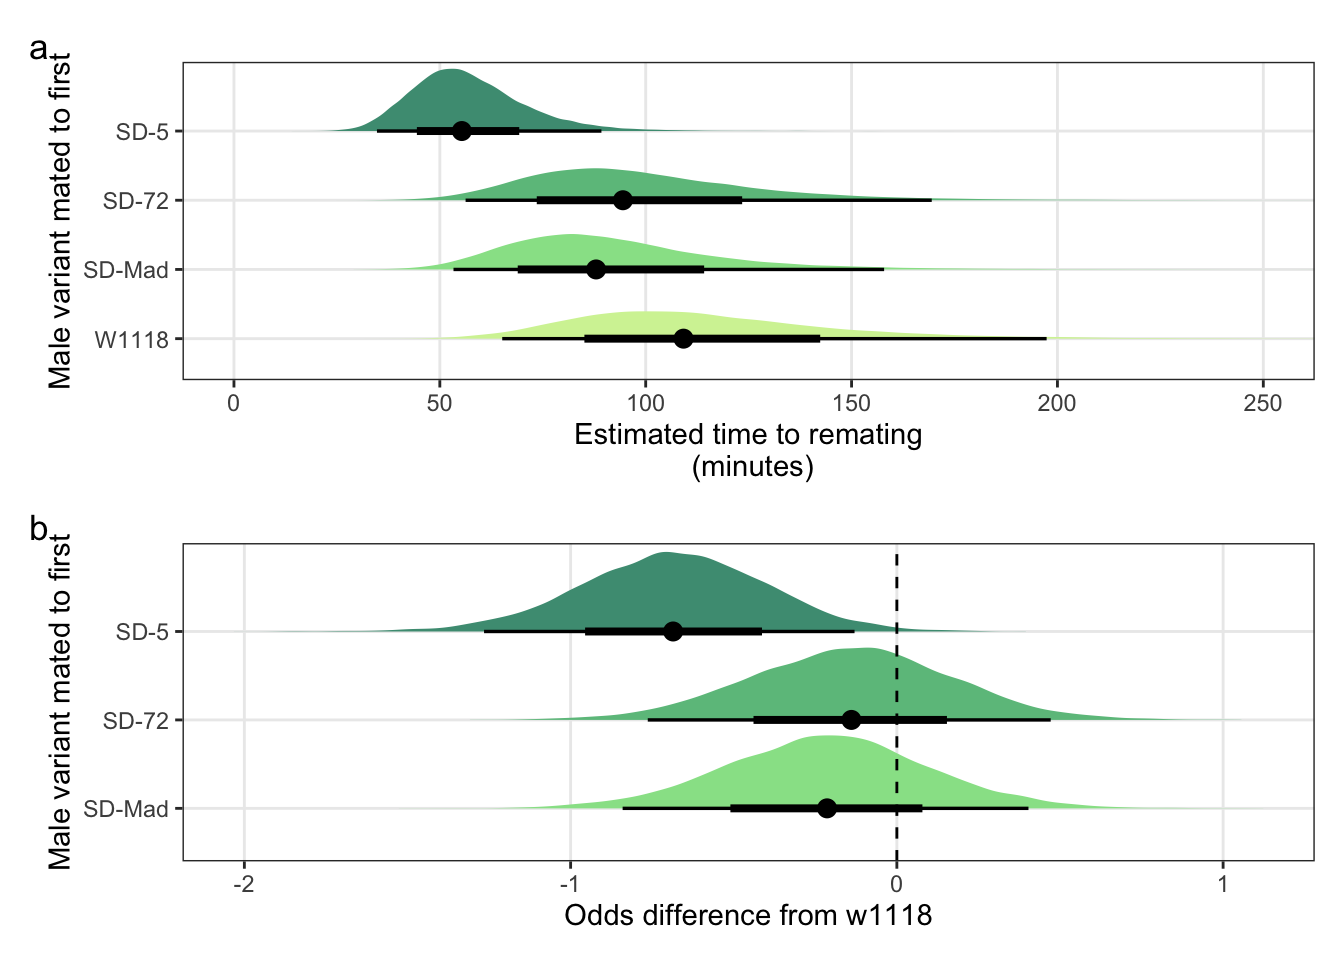
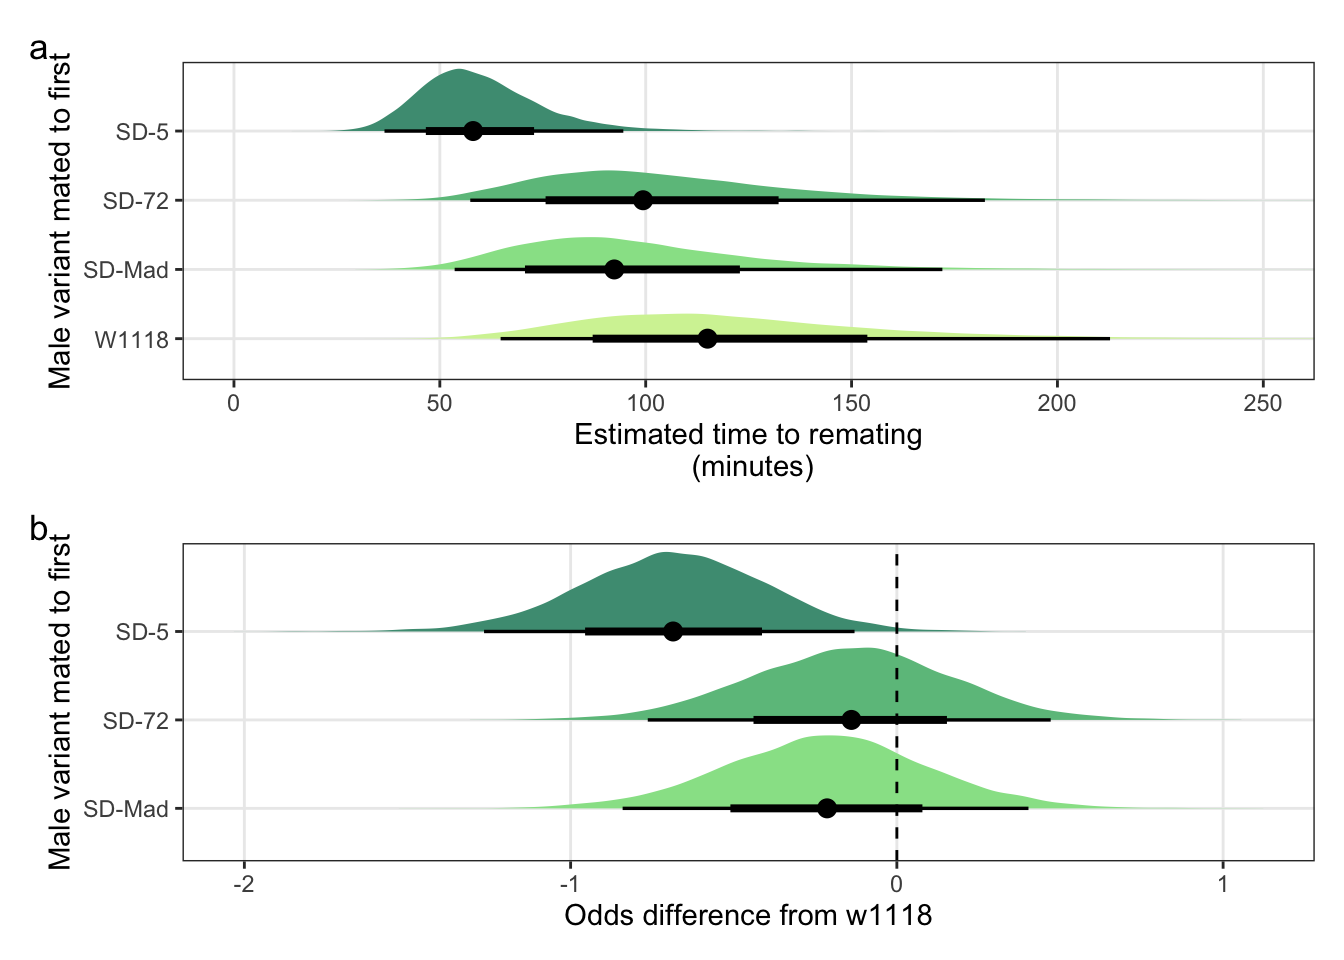
Build site.

diff --git a/docs/Empirical_analysis.html b/docs/Empirical_analysis.html
@@ -414,7 +414,7 @@ div.tocify {
 <div class="tab-content">
 <div id="summary" class="tab-pane fade in active">
 <p>
-<strong>Last updated:</strong> 2021-05-25
+<strong>Last updated:</strong> 2021-05-26
 </p>
 <p>
 <strong>Checks:</strong> <span class="glyphicon glyphicon-ok text-success" aria-hidden="true"></span> 7 <span class="glyphicon glyphicon-exclamation-sign text-danger" aria-hidden="true"></span> 0
@@ -505,16 +505,16 @@ This reproducible <a href="http://rmarkdown.rstudio.com">R Markdown</a> analysis
 <div class="panel panel-default">
 <div class="panel-heading">
 <p class="panel-title">
-<a data-toggle="collapse" data-parent="#workflowr-checks" href="#strongRepositoryversionstrongahrefhttpsgithubcomtomkeaneySDsexualselectiontree877c09b4c442811e7ffc734deea113689bd61bd1targetblank877c09ba"> <span class="glyphicon glyphicon-ok text-success" aria-hidden="true"></span> <strong>Repository version:</strong> <a href="https://github.com/tomkeaney/SD_sexual_selection/tree/877c09b4c442811e7ffc734deea113689bd61bd1" target="_blank">877c09b</a> </a>
+<a data-toggle="collapse" data-parent="#workflowr-checks" href="#strongRepositoryversionstrongahrefhttpsgithubcomtomkeaneySDsexualselectiontree93c7c3a71de35c31657355ebeb80558f67dcd775targetblank93c7c3aa"> <span class="glyphicon glyphicon-ok text-success" aria-hidden="true"></span> <strong>Repository version:</strong> <a href="https://github.com/tomkeaney/SD_sexual_selection/tree/93c7c3a71de35c31657355ebeb80558f67dcd775" target="_blank">93c7c3a</a> </a>
 </p>
 </div>
[2 lines of base64/hex data omitted]
 <div class="panel-body">
 <p>
 Great! You are using Git for version control. Tracking code development and connecting the code version to the results is critical for reproducibility.
 </p>
 <p>
-The results in this page were generated with repository version <a href="https://github.com/tomkeaney/SD_sexual_selection/tree/877c09b4c442811e7ffc734deea113689bd61bd1" target="_blank">877c09b</a>. See the <em>Past versions</em> tab to see a history of the changes made to the R Markdown and HTML files.
+The results in this page were generated with repository version <a href="https://github.com/tomkeaney/SD_sexual_selection/tree/93c7c3a71de35c31657355ebeb80558f67dcd775" target="_blank">93c7c3a</a>. See the <em>Past versions</em> tab to see a history of the changes made to the R Markdown and HTML files.
 </p>
 <p>
 Note that you need to be careful to ensure that all relevant files for the analysis have been committed to Git prior to generating the results (you can use <code>wflow_publish</code> or <code>wflow_git_commit</code>). workflowr only checks the R Markdown file, but you know if there are other scripts or data files that it depends on. Below is the status of the Git repository when the results were generated:
@@ -522,16 +522,14 @@ Note that you need to be careful to ensure that all relevant files for the analy
 <pre><code>
 Ignored files:
     Ignored:    .DS_Store
+    Ignored:    .Rapp.history
     Ignored:    .Rhistory
     Ignored:    .Rproj.user/
     Ignored:    analysis/.DS_Store
     Ignored:    analysis/.Rapp.history
 
-Untracked files:
-    Untracked:  Figure_2.pdf
-
 Unstaged changes:
-    Deleted:    Figure_4.pdf
+    Modified:   SD_sexual_selection.Rproj
     Modified:   Supplementary_material.Rmd
     Modified:   Supplementary_material.pdf
 
@@ -572,6 +570,40 @@ Message
 </tr>
 </thead>
 <tbody>
+<tr>
+<td>
+Rmd
+</td>
+<td>
+<a href="https://github.com/tomkeaney/SD_sexual_selection/blob/93c7c3a71de35c31657355ebeb80558f67dcd775/analysis/Empirical_analysis.Rmd" target="_blank">93c7c3a</a>
+</td>
+<td>
+tkeaney
+</td>
+<td>
+2021-05-26
+</td>
+<td>
+small fixes
+</td>
+</tr>
+<tr>
+<td>
+html
+</td>
+<td>
+<a href="https://rawcdn.githack.com/tomkeaney/SD_sexual_selection/f30258aac3f1b78957f599e4001cf340ea4a4304/docs/Empirical_analysis.html" target="_blank">f30258a</a>
+</td>
+<td>
+tkeaney
+</td>
+<td>
+2021-05-25
+</td>
+<td>
+Build site.
+</td>
+</tr>
 <tr>
 <td>
 Rmd
@@ -3780,7 +3812,7 @@ post_diff_l %&gt;%
 <pre class="r"><code>mean_latency_plot &lt;-
   posterior_prediction_remating_latency %&gt;%
   mutate(SD = recode(posterior_prediction_remating_latency$SD, &quot;MAD&quot; = &quot;SD-Mad&quot;, &quot;72&quot; = &quot;SD-72&quot;, &quot;5&quot; = &quot;SD-5&quot;)) %&gt;%
-  filter(Block != &quot;2&quot;) %&gt;% 
+  filter(Block == &quot;1&quot;) %&gt;% 
   ggplot(aes(SD, avg_remating_latency)) + 
   stat_halfeye(aes(fill = SD), .width = c(0.66, 0.95)) + # width indicates the uncertainty intervals: here we have 66% and 95% intervals
   scale_fill_manual(values = c(&quot;W1118&quot; = &quot;#d3f2a3&quot;, &quot;SD-Mad&quot; = &quot;#97e196&quot;, &quot;SD-72&quot; = &quot;#6cc08b&quot;, &quot;SD-5&quot; = &quot;#4c9b82&quot;)) +
@@ -3854,7 +3886,7 @@ tkeaney
 </table>
 </div>
 </div>
-<p><strong>Figure S5:</strong> The effect that <em>SD/+</em> males have on female remating latency and how this compares to <em>w<sup>1118</sup></em> control males. Panel <strong>a</strong> shows the estimated remating latency for females exposed to <em>LH<sub>m</sub><sup>UBI</sup></em> males over a three-hour period, that had mated with a <em>SD/+</em> or control male four days earlier. Block 2 produced very different results to Blocks 1 and 3, so we exclude it from panel <strong>a</strong> to aid visual clarity (differences between the <em>SD</em> variants and the control do not change). Panel <strong>b</strong> shows effect sizes on the odds scale for the <em>SD</em> variants. Negative values indicate that the mates of <em>SD/+</em> males remated faster than the mates of <em>w<sup>1118</sup></em> control males. Black points indicate the estimated mean with associated 66 and 95% uncertainty intervals, while coloured area shows the posterior distribution.</p>
+<p><strong>Figure S5:</strong> The effect that <em>SD/+</em> males have on female remating latency and how this compares to <em>w<sup>1118</sup></em> control males. Panel <strong>a</strong> shows the estimated remating latency for females exposed to <em>LH<sub>m</sub><sup>UBI</sup></em> males over a three-hour period, that had mated with a <em>SD/+</em> or control male four days earlier. Panel <strong>b</strong> shows effect sizes on the odds scale for the <em>SD</em> variants. Negative values indicate that the mates of <em>SD/+</em> males remated faster than the mates of <em>w<sup>1118</sup></em> control males. Black points indicate the estimated mean with associated 66 and 95% uncertainty intervals, while coloured area shows the posterior distribution.</p>
 <p><span class="math inline">\(~\)</span></p>
 </div>
 <div id="copulation-duration-in-the-first-mating-role" class="section level3">
@@ -4628,7 +4660,7 @@ tkeaney
 </table>
 </div>
 </div>
-<p><strong>Figure 1:</strong> The effect of <em>SD</em> on male mating and fertilisation success. Black points indicate the estimated mean, with associated 66 and 95% uncertainty intervals, while coloured area shows the posterior distribution. Panels a, c, e and g show results on the response scale, while panels b, d, f, and h show the distribution of the log-odds differences between the <em>SD</em> variants and the control allele; 95% uncertainty intervals that do not overlap zero indicate a significant effect. Panel <strong>a</strong> shows the estimated percentage of males that successfully mated with a <em>LH<sub>m</sub></em> female, when competing against a single <em>Lbw</em> male. Panel <strong>b</strong> shows effect sizes on the log-odds scale for the <em>SD</em> variants; positive values indicate that <em>SD/+</em> males were more likely to mate than the <em>+/+</em> control males. Panel <strong>c</strong> shows the estimated percentage of offspring sired by males carrying <em>SD</em> or the control allele, when these males mated first (P1). Panel <strong>d</strong> shows effect sizes on the log-odds scale for the <em>SD</em> variants; negative values indicate that <em>SD/+</em> males had lower P1 values than the <em>+/+</em> control males. Panel <strong>e</strong> shows the estimated percentage of offspring sired by males carrying <em>SD</em> or the control allele, when these males mated second (P2). Panel <strong>f</strong> shows effect sizes on the log-odds scale for the <em>SD</em> variants; negative values indicate that <em>SD/+</em> males had lower P2 values than the <em>+/+</em> control males. Panel <strong>g</strong> shows the estimated percentage of females remating with <em>LH<sub>m</sub><sup>UBI</sup></em> males in a three-hour period, that had mated with a <em>SD/+</em> or control male four days earlier. Data was quite variable between blocks for this response, so we plot model estimates based upon Block 1 to aid visual clarity (differences between the <em>SD</em> variants and the control do not change). Panel <strong>h</strong> shows effect sizes on the log-odds scale for the <em>SD</em> variants; positive values indicate that the mates of <em>SD/+</em> males were more likely to remate than the mates of <em>+/+</em> control males, four days after the first mating.</p>
+<p><strong>Figure 1:</strong> The effect of <em>SD</em> on male mating and fertilisation success. Black points indicate the estimated mean, with associated 66 and 95% uncertainty intervals, while coloured area shows the posterior distribution. Panels a, c, e and g show results on the response scale, while panels b, d, f, and h show the distribution of the log-odds differences between the <em>SD</em> variants and the control allele; 95% uncertainty intervals that do not overlap zero indicate a significant effect. Panel <strong>a</strong> shows the estimated percentage of males that successfully mated with a <em>LH<sub>m</sub></em> female, when competing against a single <em>Lbw</em> male. Panel <strong>b</strong> shows effect sizes on the log-odds scale for the <em>SD</em> variants; positive values indicate that <em>SD/+</em> males were more likely to mate than the <em>+/+</em> control males. Panel <strong>c</strong> shows the estimated percentage of offspring sired by males carrying <em>SD</em> or the control allele, when these males mated first (P1). Panel <strong>d</strong> shows effect sizes on the log-odds scale for the <em>SD</em> variants; negative values indicate that <em>SD/+</em> males had lower P1 values than the <em>+/+</em> control males. Panel <strong>e</strong> shows the estimated percentage of offspring sired by males carrying <em>SD</em> or the control allele, when these males mated second (P2). Panel <strong>f</strong> shows effect sizes on the log-odds scale for the <em>SD</em> variants; negative values indicate that <em>SD/+</em> males had lower P2 values than the <em>+/+</em> control males. Panel <strong>g</strong> shows the estimated percentage of females remating with <em>LH<sub>m</sub><sup>UBI</sup></em> males in a three-hour period, that had mated with a <em>SD/+</em> or control male four days earlier. Panel <strong>h</strong> shows effect sizes on the log-odds scale for the <em>SD</em> variants; positive values indicate that the mates of <em>SD/+</em> males were more likely to remate than the mates of <em>+/+</em> control males, four days after the first mating.</p>
 <p><span class="math inline">\(~\)</span></p>
 <br>
 <p>
